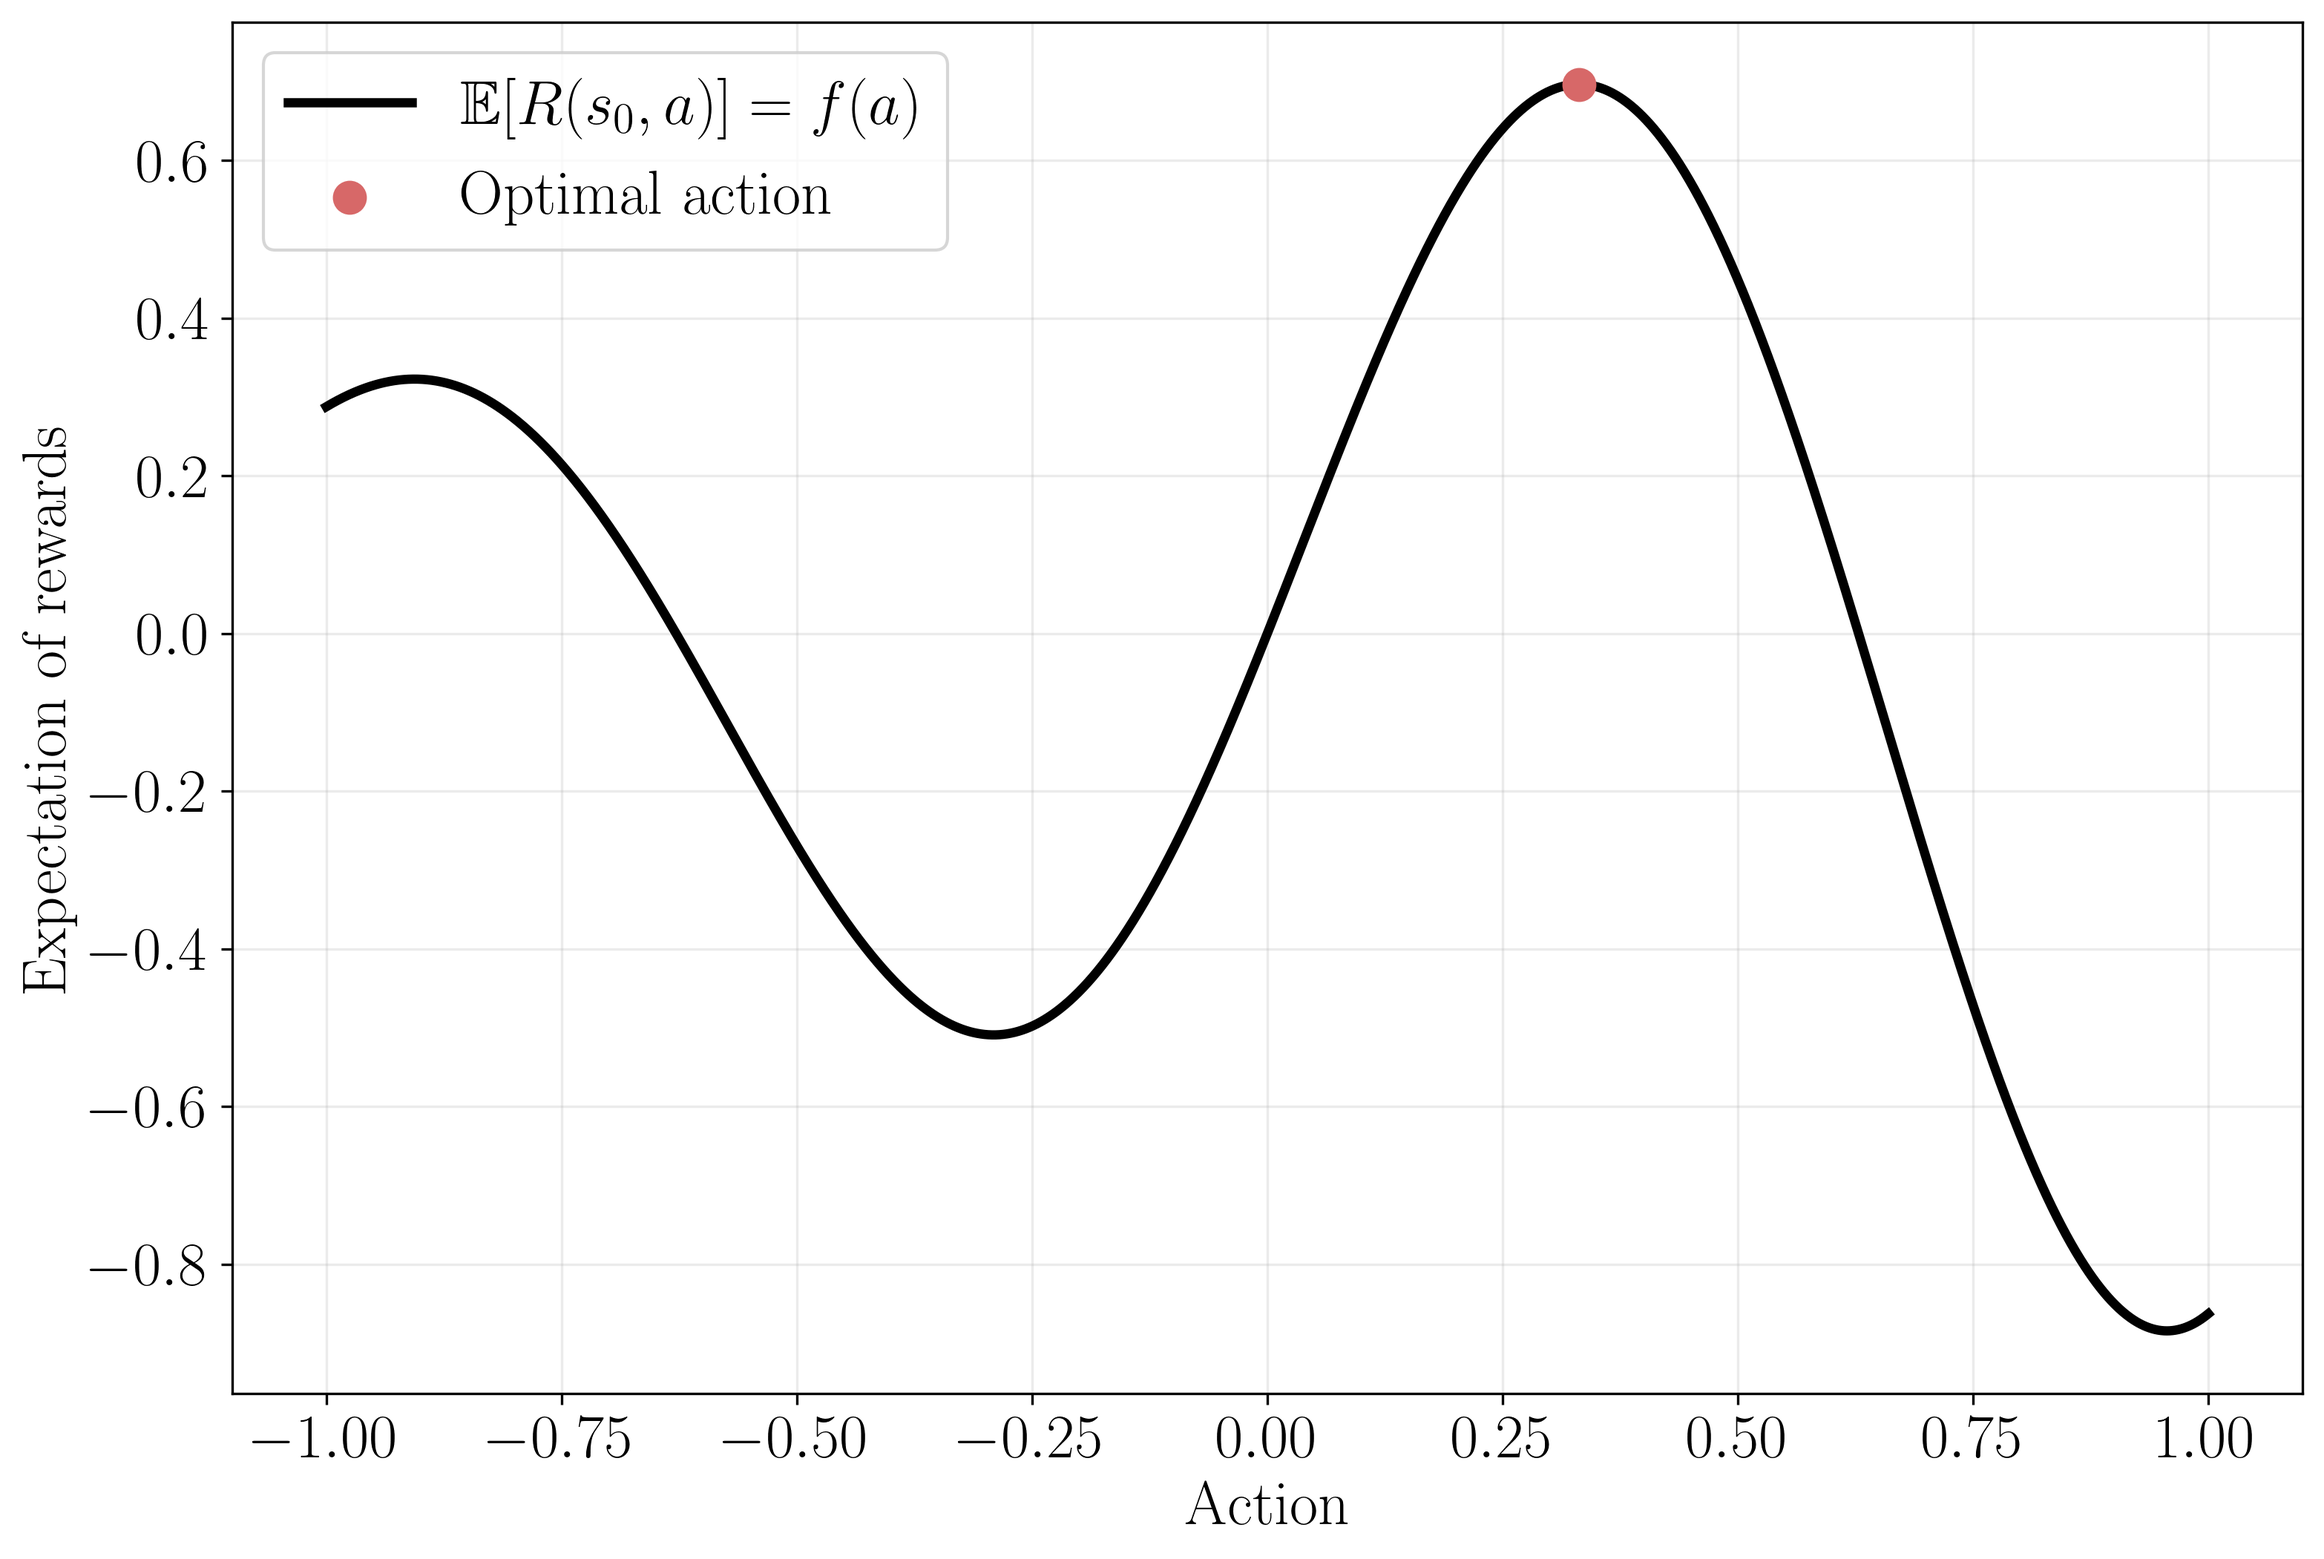
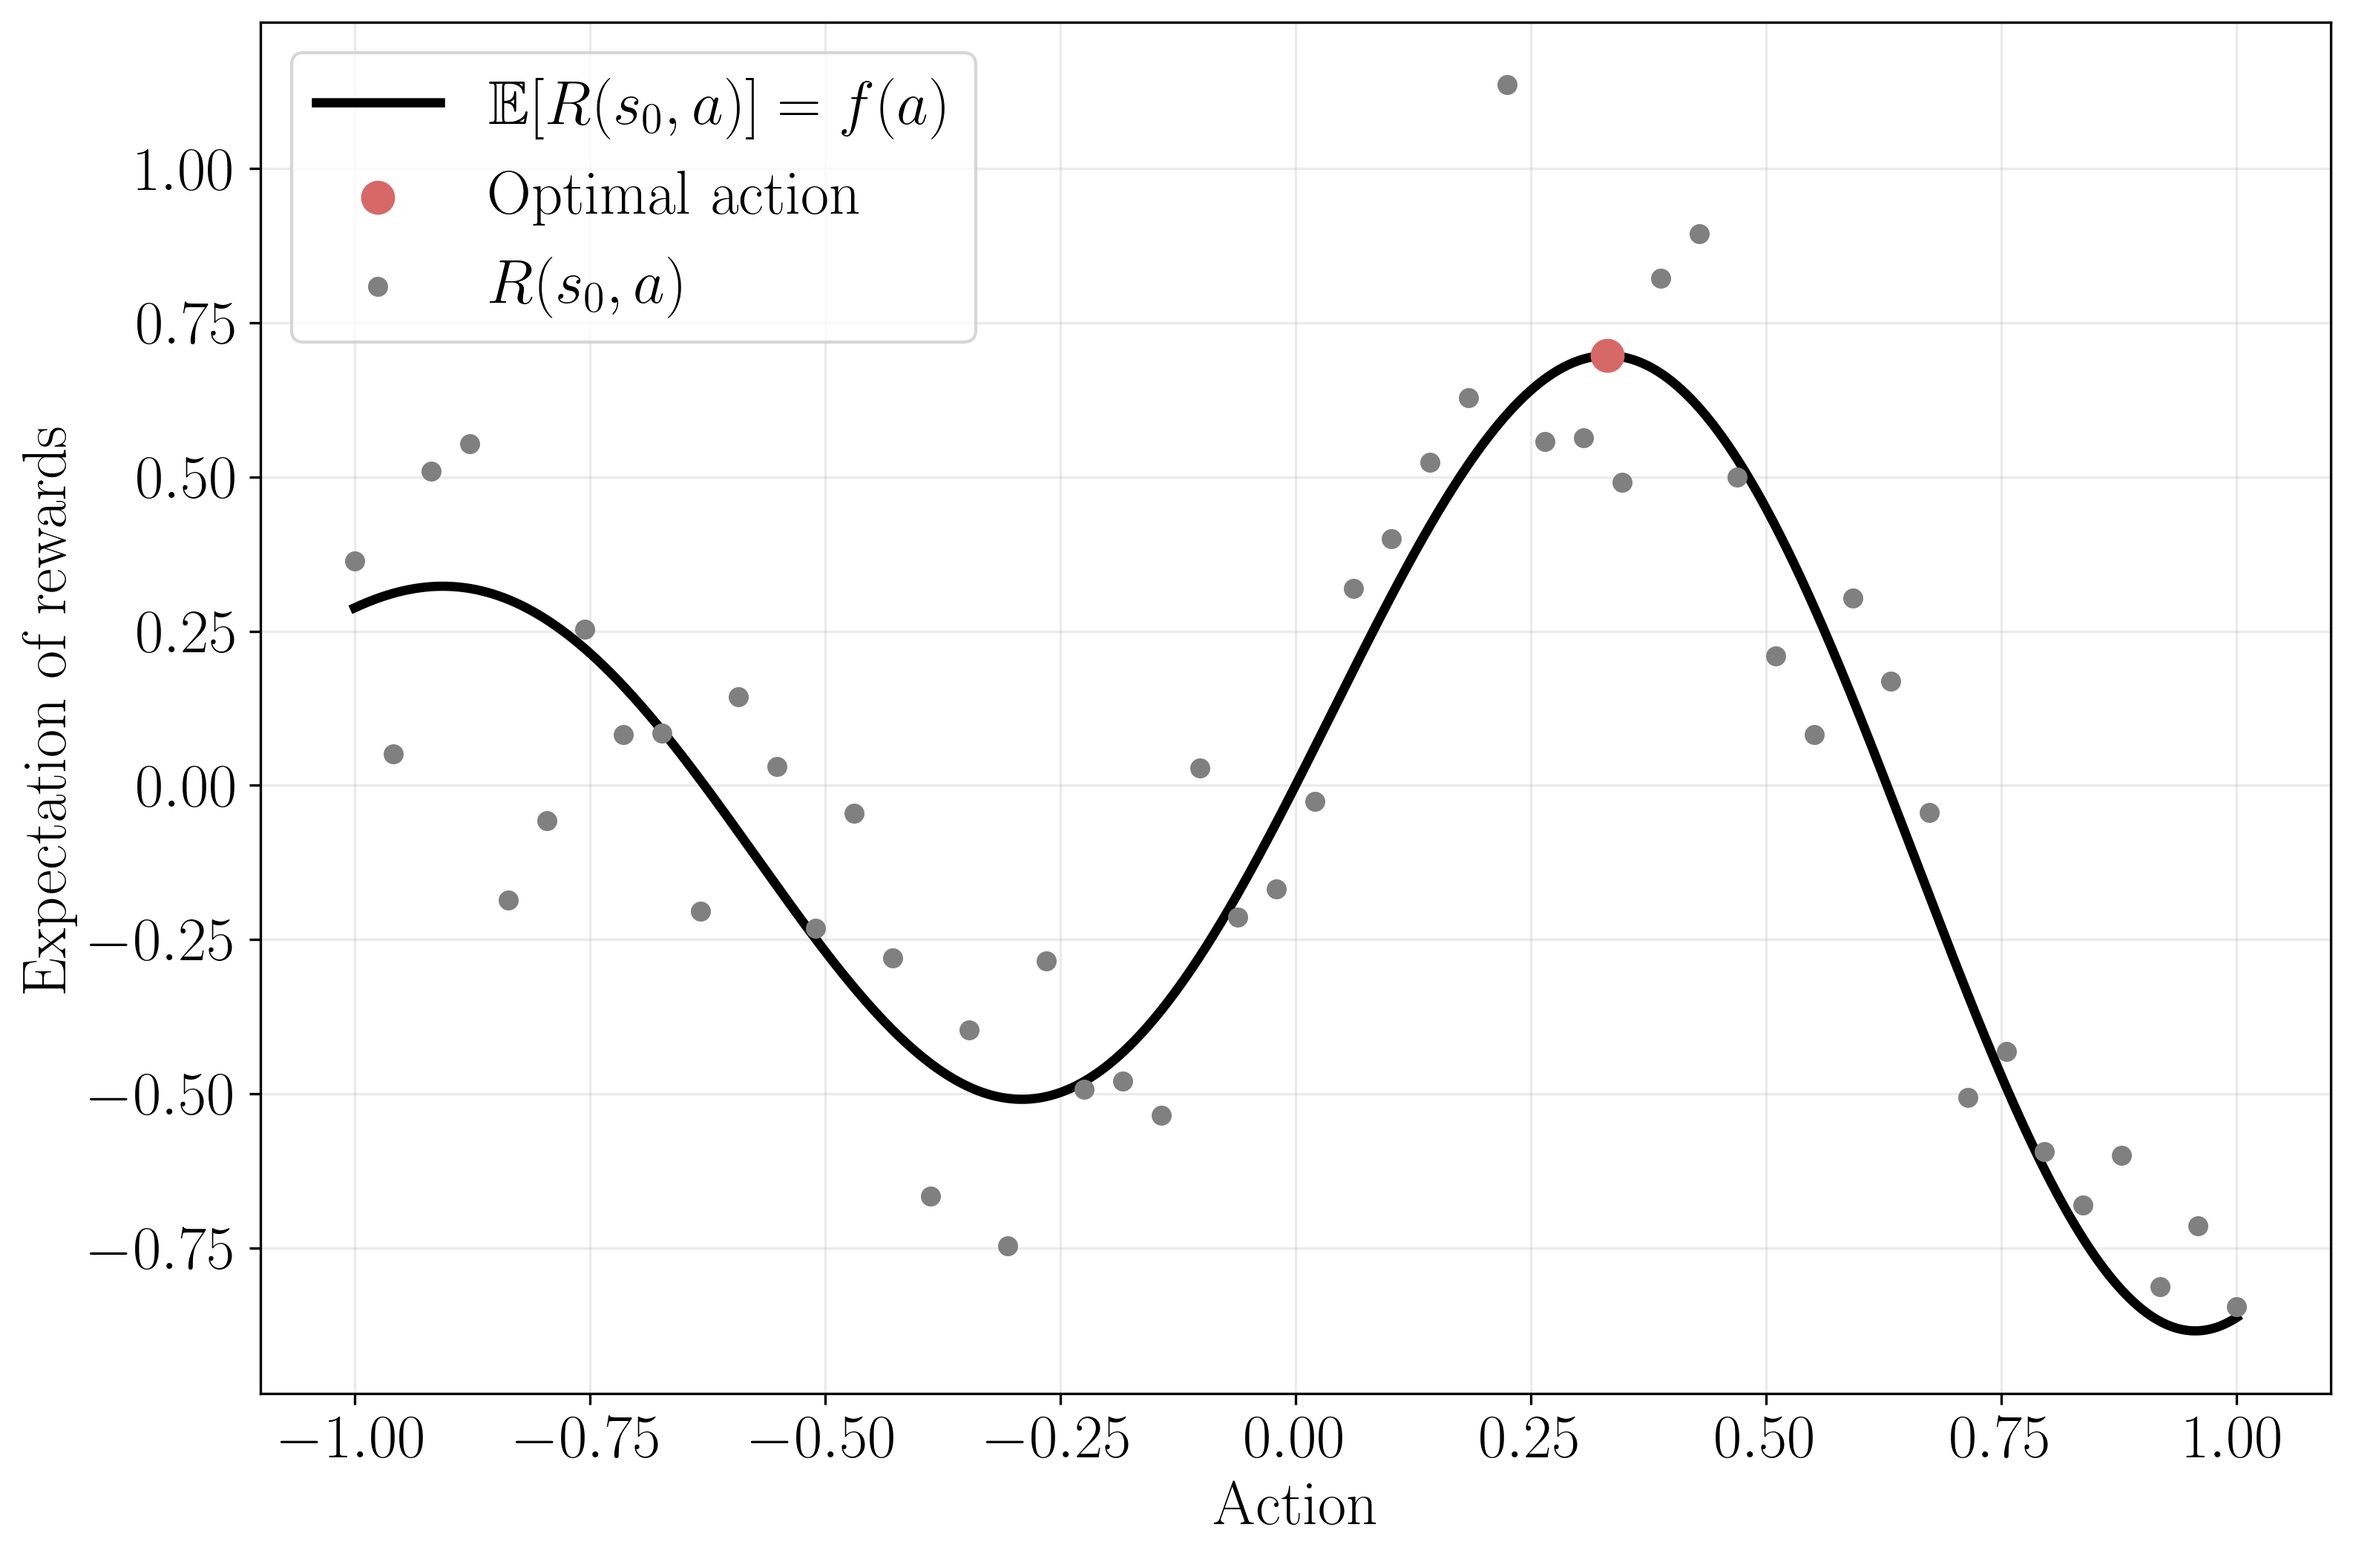
added figure and fixed a tiny bug

diff --git a/src/tools/visualize_tqc_mdp.py b/src/tools/visualize_tqc_mdp.py
@@ -18,6 +18,9 @@ def main() -> None:
     rewards = mdp.f(actions)
     q_values = mdp.q_optimal(actions)
 
+    sample_actions = np.linspace(-1, 1, 50).reshape(-1, 1)
+    samples = mdp.reward(sample_actions, np.random.default_rng(42))
+
     plt.rcParams["font.size"] = 20
     plt.rcParams["text.usetex"] = True
     plt.rcParams["font.family"] = "serif"
@@ -42,6 +45,15 @@ def main() -> None:
         s=100,
         zorder=5,
         label=r"Optimal action",
+    )
+
+    ax.scatter(
+        sample_actions,
+        samples,
+        color="gray",
+        s=30,
+        zorder=5,
+        label=r"$R(s_0, a)$",
     )
 
     ax.set_xlabel("Action")
@@ -80,7 +92,7 @@ def main() -> None:
     )
 
     ax.set_xlabel("Action")
-    ax.set_ylabel("Expectation of rewards")
+    ax.set_ylabel("Optimal returns over infinite time horizon")
 
     ax.grid(visible=True, alpha=0.25)
     ax.legend()

diff --git a/src/tools/compute_tqc_figure2.py b/src/tools/compute_tqc_figure2.py
@@ -37,7 +37,7 @@ class ToyMdp:
         )
 
     def reward(self, action: float, rng: np.random.Generator) -> float:
-        return self.f(action) + rng.normal(0, self.sigma)
+        return self.f(action) + rng.normal(0, self.sigma, action.shape)
 
     def q_policy(self, action: np.ndarray, policy: np.ndarray) -> np.ndarray:
         return self.f(action) + self.gamma * self.f(policy) / (1 - self.gamma)
